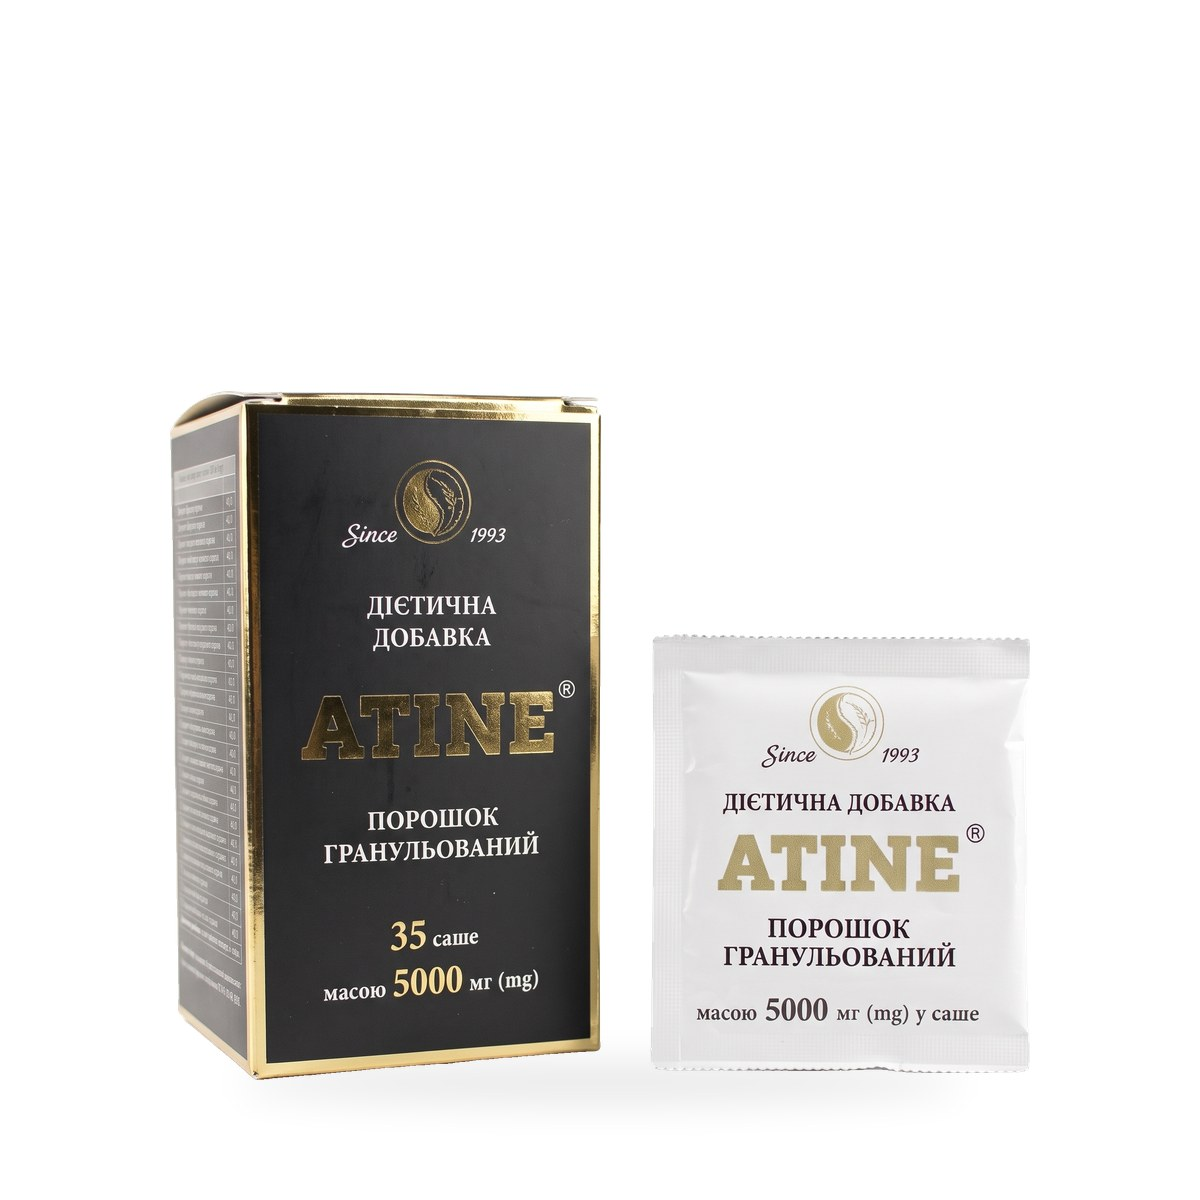
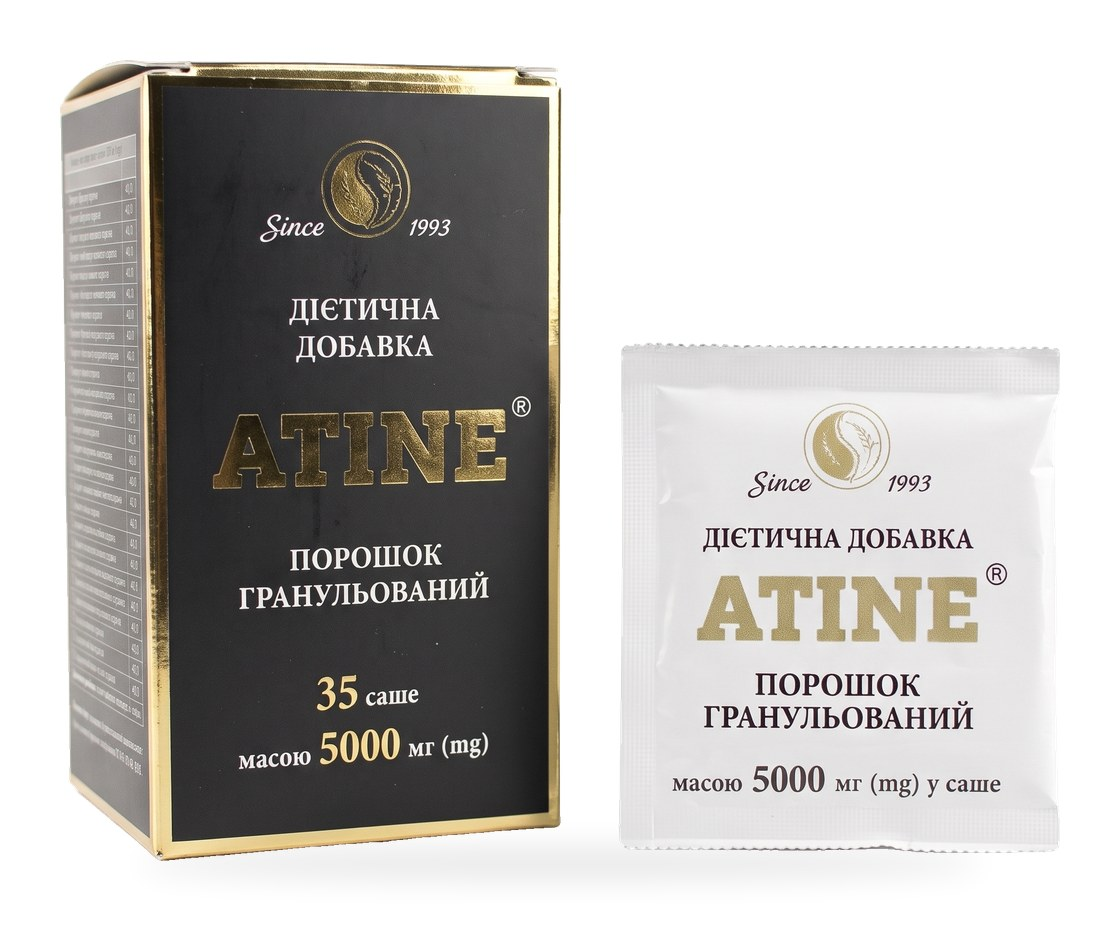
v78: фото препаратов обрезаны плотно по упаковке, в карточках каталога нет пустоты над фото, одинаковая высота фото

diff --git a/index.html b/index.html
@@ -9,7 +9,7 @@
 <link rel="icon" href="assets/img/gold.png">
 <link rel="preconnect" href="https://fonts.googleapis.com">
 <link rel="stylesheet" href="https://fonts.googleapis.com/css2?family=Onest:wght@300;400;500;600&display=swap">
-<link rel="stylesheet" href="assets/site.css?v=77">
+<link rel="stylesheet" href="assets/site.css?v=78">
 <link rel="preload" as="image" href="assets/img/logo-glow.png">
 <style id="pre-crit">.pre{position:fixed;inset:0;z-index:200;display:grid;place-items:center;background:radial-gradient(70% 60% at 50% 45%,#1CA9A8 0%,#0A676B 55%,#075F64 100%);transition:opacity .7s ease,visibility .7s}.pre.done{opacity:0;visibility:hidden}.pre-in{display:flex;flex-direction:column;align-items:center;gap:12px}.pre-logo{display:block;width:180px;height:180px;margin:-28px 0 -34px}.pre-word{font:600 42px/1 Onest,system-ui,-apple-system,sans-serif;letter-spacing:.3em;margin-right:-.3em;color:#F3D186;text-shadow:0 2px 0 rgba(80,52,16,.5),0 0 18px rgba(240,200,110,.4)}.pre-in small{font:500 11.5px Onest,system-ui,sans-serif;letter-spacing:.4em;margin-right:-.4em;color:#F6E3B4}@media (max-width:759px){.pre-logo{width:164px;height:164px}.pre-word{font-size:38px}}</style>
 

diff --git a/assets/site.css b/assets/site.css
@@ -1954,3 +1954,9 @@ html body :is(.pc,.gal,.fs,.qz-r,.pcard,.citem) img:is([src*="ph_tea"],[src*="ph
 html body article.pc .media{display:grid!important;place-items:center!important}
 html body article.pc .media img{width:min(100%,260px)!important;height:auto!important;aspect-ratio:1/1!important;max-height:none!important;object-fit:contain!important;margin:0 auto!important;transform:none!important}
 @media (max-width:760px){html body article.pc .media img{width:min(100%,270px)!important}}
+/* v78: catalog cards — no empty gap above the product; one image box height for all */
+html body article.pc{min-height:0!important}
+html body article.pc .media{flex:0 0 auto!important;min-height:0!important;padding:14px 0 6px!important;margin:0!important}
+html body article.pc .media img{width:100%!important;max-width:300px!important;height:200px!important;aspect-ratio:auto!important;object-fit:contain!important}
+@media (max-width:760px){html body article.pc .media img{height:190px!important}}
+html body .pcard .im img,html body .gal .main img{object-fit:contain!important}

diff --git a/produkty/fitochai/index.html b/produkty/fitochai/index.html
@@ -9,7 +9,7 @@
 <link rel="icon" href="../../assets/img/gold.png">
 <link rel="preconnect" href="https://fonts.googleapis.com">
 <link rel="stylesheet" href="https://fonts.googleapis.com/css2?family=Onest:wght@300;400;500;600&display=swap">
-<link rel="stylesheet" href="../../assets/site.css?v=77">
+<link rel="stylesheet" href="../../assets/site.css?v=78">
 </head>
 <body>
 <div class="pre" id="pre" aria-hidden="true"><div class="pre-in"><img class="pre-logo" src="../../assets/img/gold.png" alt="" width="428" height="429" fetchpriority="high"><b class="pre-word">ATINE</b><small>SCIENCE FOR LIFE</small><span class="pre-ld"><b></b></span></div></div>

diff --git a/produkty/hustyi-ekstrakt/index.html b/produkty/hustyi-ekstrakt/index.html
@@ -9,7 +9,7 @@
 <link rel="icon" href="../../assets/img/gold.png">
 <link rel="preconnect" href="https://fonts.googleapis.com">
 <link rel="stylesheet" href="https://fonts.googleapis.com/css2?family=Onest:wght@300;400;500;600&display=swap">
-<link rel="stylesheet" href="../../assets/site.css?v=77">
+<link rel="stylesheet" href="../../assets/site.css?v=78">
 </head>
 <body>
 <div class="pre" id="pre" aria-hidden="true"><div class="pre-in"><img class="pre-logo" src="../../assets/img/gold.png" alt="" width="428" height="429" fetchpriority="high"><b class="pre-word">ATINE</b><small>SCIENCE FOR LIFE</small><span class="pre-ld"><b></b></span></div></div>

diff --git a/produkty/kapsuly/index.html b/produkty/kapsuly/index.html
@@ -9,7 +9,7 @@
 <link rel="icon" href="../../assets/img/gold.png">
 <link rel="preconnect" href="https://fonts.googleapis.com">
 <link rel="stylesheet" href="https://fonts.googleapis.com/css2?family=Onest:wght@300;400;500;600&display=swap">
-<link rel="stylesheet" href="../../assets/site.css?v=77">
+<link rel="stylesheet" href="../../assets/site.css?v=78">
 </head>
 <body>
 <div class="pre" id="pre" aria-hidden="true"><div class="pre-in"><img class="pre-logo" src="../../assets/img/gold.png" alt="" width="428" height="429" fetchpriority="high"><b class="pre-word">ATINE</b><small>SCIENCE FOR LIFE</small><span class="pre-ld"><b></b></span></div></div>

diff --git a/produkty/sukhyi-ekstrakt/index.html b/produkty/sukhyi-ekstrakt/index.html
@@ -9,7 +9,7 @@
 <link rel="icon" href="../../assets/img/gold.png">
 <link rel="preconnect" href="https://fonts.googleapis.com">
 <link rel="stylesheet" href="https://fonts.googleapis.com/css2?family=Onest:wght@300;400;500;600&display=swap">
-<link rel="stylesheet" href="../../assets/site.css?v=77">
+<link rel="stylesheet" href="../../assets/site.css?v=78">
 </head>
 <body>
 <div class="pre" id="pre" aria-hidden="true"><div class="pre-in"><img class="pre-logo" src="../../assets/img/gold.png" alt="" width="428" height="429" fetchpriority="high"><b class="pre-word">ATINE</b><small>SCIENCE FOR LIFE</small><span class="pre-ld"><b></b></span></div></div>

diff --git a/produkty/tabletky/index.html b/produkty/tabletky/index.html
@@ -9,7 +9,7 @@
 <link rel="icon" href="../../assets/img/gold.png">
 <link rel="preconnect" href="https://fonts.googleapis.com">
 <link rel="stylesheet" href="https://fonts.googleapis.com/css2?family=Onest:wght@300;400;500;600&display=swap">
-<link rel="stylesheet" href="../../assets/site.css?v=77">
+<link rel="stylesheet" href="../../assets/site.css?v=78">
 </head>
 <body>
 <div class="pre" id="pre" aria-hidden="true"><div class="pre-in"><img class="pre-logo" src="../../assets/img/gold.png" alt="" width="428" height="429" fetchpriority="high"><b class="pre-word">ATINE</b><small>SCIENCE FOR LIFE</small><span class="pre-ld"><b></b></span></div></div>

diff --git a/doslidzhennya/index.html b/doslidzhennya/index.html
@@ -9,7 +9,7 @@
 <link rel="icon" href="../assets/img/gold.png">
 <link rel="preconnect" href="https://fonts.googleapis.com">
 <link rel="stylesheet" href="https://fonts.googleapis.com/css2?family=Onest:wght@300;400;500;600&display=swap">
-<link rel="stylesheet" href="../assets/site.css?v=77">
+<link rel="stylesheet" href="../assets/site.css?v=78">
 </head>
 <body>
 <div class="pre" id="pre" aria-hidden="true"><div class="pre-in"><img class="pre-logo" src="../assets/img/gold.png" alt="" width="428" height="429" fetchpriority="high"><b class="pre-word">ATINE</b><small>SCIENCE FOR LIFE</small><span class="pre-ld"><b></b></span></div></div>

diff --git a/eksperty/index.html b/eksperty/index.html
@@ -9,7 +9,7 @@
 <link rel="icon" href="../assets/img/gold.png">
 <link rel="preconnect" href="https://fonts.googleapis.com">
 <link rel="stylesheet" href="https://fonts.googleapis.com/css2?family=Onest:wght@300;400;500;600&display=swap">
-<link rel="stylesheet" href="../assets/site.css?v=77">
+<link rel="stylesheet" href="../assets/site.css?v=78">
 </head>
 <body>
 <div class="pre" id="pre" aria-hidden="true"><div class="pre-in"><img class="pre-logo" src="../assets/img/gold.png" alt="" width="428" height="429" fetchpriority="high"><b class="pre-word">ATINE</b><small>SCIENCE FOR LIFE</small><span class="pre-ld"><b></b></span></div></div>

diff --git a/kontakty/index.html b/kontakty/index.html
@@ -9,7 +9,7 @@
 <link rel="icon" href="../assets/img/gold.png">
 <link rel="preconnect" href="https://fonts.googleapis.com">
 <link rel="stylesheet" href="https://fonts.googleapis.com/css2?family=Onest:wght@300;400;500;600&display=swap">
-<link rel="stylesheet" href="../assets/site.css?v=77">
+<link rel="stylesheet" href="../assets/site.css?v=78">
 </head>
 <body>
 <div class="pre" id="pre" aria-hidden="true"><div class="pre-in"><img class="pre-logo" src="../assets/img/gold.png" alt="" width="428" height="429" fetchpriority="high"><b class="pre-word">ATINE</b><small>SCIENCE FOR LIFE</small><span class="pre-ld"><b></b></span></div></div>

diff --git a/koshyk/index.html b/koshyk/index.html
@@ -9,7 +9,7 @@
 <link rel="icon" href="../assets/img/gold.png">
 <link rel="preconnect" href="https://fonts.googleapis.com">
 <link rel="stylesheet" href="https://fonts.googleapis.com/css2?family=Onest:wght@300;400;500;600&display=swap">
-<link rel="stylesheet" href="../assets/site.css?v=77">
+<link rel="stylesheet" href="../assets/site.css?v=78">
 </head>
 <body>
 <div class="pre" id="pre" aria-hidden="true"><div class="pre-in"><img class="pre-logo" src="../assets/img/gold.png" alt="" width="428" height="429" fetchpriority="high"><b class="pre-word">ATINE</b><small>SCIENCE FOR LIFE</small><span class="pre-ld"><b></b></span></div></div>

diff --git a/likaryam/index.html b/likaryam/index.html
@@ -9,7 +9,7 @@
 <link rel="icon" href="../assets/img/gold.png">
 <link rel="preconnect" href="https://fonts.googleapis.com">
 <link rel="stylesheet" href="https://fonts.googleapis.com/css2?family=Onest:wght@300;400;500;600&display=swap">
-<link rel="stylesheet" href="../assets/site.css?v=77">
+<link rel="stylesheet" href="../assets/site.css?v=78">
 </head>
 <body>
 <div class="pre" id="pre" aria-hidden="true"><div class="pre-in"><img class="pre-logo" src="../assets/img/gold.png" alt="" width="428" height="429" fetchpriority="high"><b class="pre-word">ATINE</b><small>SCIENCE FOR LIFE</small><span class="pre-ld"><b></b></span></div></div>
